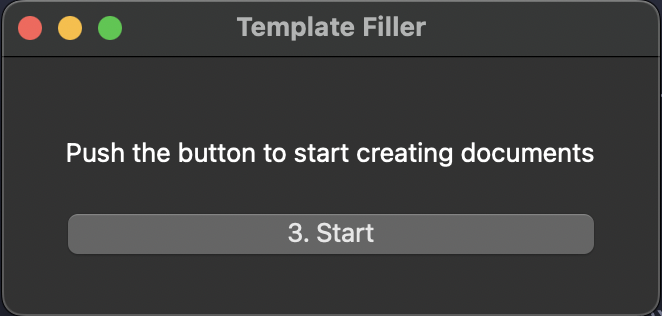
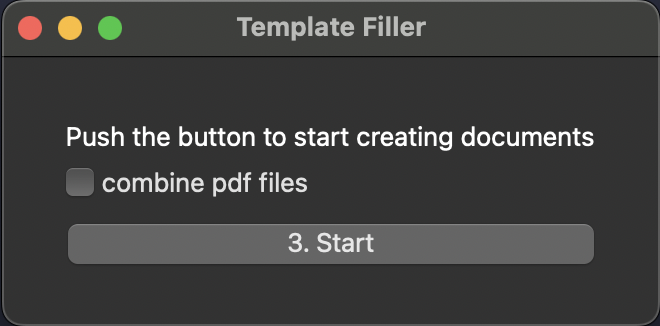
option to merge pdf files

diff --git a/gui.py b/gui.py
@@ -17,6 +17,7 @@ from PyQt6.QtWidgets import (
     QFormLayout,
     QLineEdit,
     QStackedLayout,
+    QCheckBox,
 )
 
 from PyQt6.QtGui import QIntValidator
@@ -26,7 +27,7 @@ class MainWindow(QWidget):
     def __init__(self):
         super().__init__(parent=None)
         self.controller = Controller()
-        self.template_filler_initialized = False
+        self.merge = False
         self.initializeUI()
 
     def initializeUI(self):
@@ -46,6 +47,9 @@ class MainWindow(QWidget):
         third_label = QLabel("Push the button to start creating documents")
         start_btn = QPushButton("3. Start")
         start_btn.clicked.connect(self.startDocumentGeneration)
+        merger_label = QLabel("Combine PDF files")
+        merger_checkbox = QCheckBox("combine pdf files")
+        merger_checkbox.stateChanged.connect(self.onCheckboxStateChange)
 
         self.pg1 = QVBoxLayout()
         self.pg1.addWidget(main_label)
@@ -61,6 +65,7 @@ class MainWindow(QWidget):
 
         self.pg3 = QVBoxLayout()
         self.pg3.addWidget(third_label)
+        self.pg3.addWidget(merger_checkbox)
         self.pg3.addWidget(start_btn)
         self.pg3_container = QWidget()
         self.pg3_container.setLayout(self.pg3)
@@ -85,6 +90,9 @@ class MainWindow(QWidget):
     def openColumnSelectionDialog(self):
         self.column_selection_dialog = ColumnSelectionDialog(self)
         self.column_selection_dialog.show()
+
+    def onCheckboxStateChange(self):
+        self.controller.set_merger_state(self.sender().isChecked())
 
     def startDocumentGeneration(self):
         self.controller.start_document_creation()

diff --git a/template_filler.py b/template_filler.py
@@ -1,7 +1,6 @@
 import glob, os
 
-from openpyxl import load_workbook
-from docx import Document
+from PyPDF2 import PdfFileMerger
 from docxtpl import DocxTemplate
 from docx2pdf import convert
 import pandas as pd
@@ -18,6 +17,7 @@ class TemplateFiller:
         self.columns = self.__list_columns()
         self.__column_dict = None
         self.__render_dict = None
+        self.__merger = False
 
     def __open_template(self):
         template = DocxTemplate(self.__template_path)
@@ -53,6 +53,9 @@ class TemplateFiller:
 
         self.__render_dict = dict
 
+    def set_merger_state(self, state):
+        self.__merger = state
+
     def create_documents(self):
         self.__build_render_dict()
         template = self.__template
@@ -68,3 +71,15 @@ class TemplateFiller:
             os.chmod(filename, 0o777)
             convert(filename, f"{render_dict['name']}.pdf")
         os.remove(filename)
+        if self.__merger == True:
+            self.merge_pdfs()
+
+    def merge_pdfs(self):
+        merger = PdfFileMerger()
+        pdfs = sorted([file for file in glob.glob("*.pdf")])
+        for pdf in pdfs:
+            merger.append(pdf)
+        merger.write("merged.pdf")
+        merger.close()
+        for file in pdfs:
+            os.remove(file)

diff --git a/controller.py b/controller.py
@@ -32,5 +32,8 @@ class Controller:
     def set_column_dict(self, dict):
         self.__template_filler.set_column_dict(dict)
 
+    def set_merger_state(self, state):
+        self.__template_filler.set_merger_state(state)
+
     def start_document_creation(self):
         self.__template_filler.create_documents()
